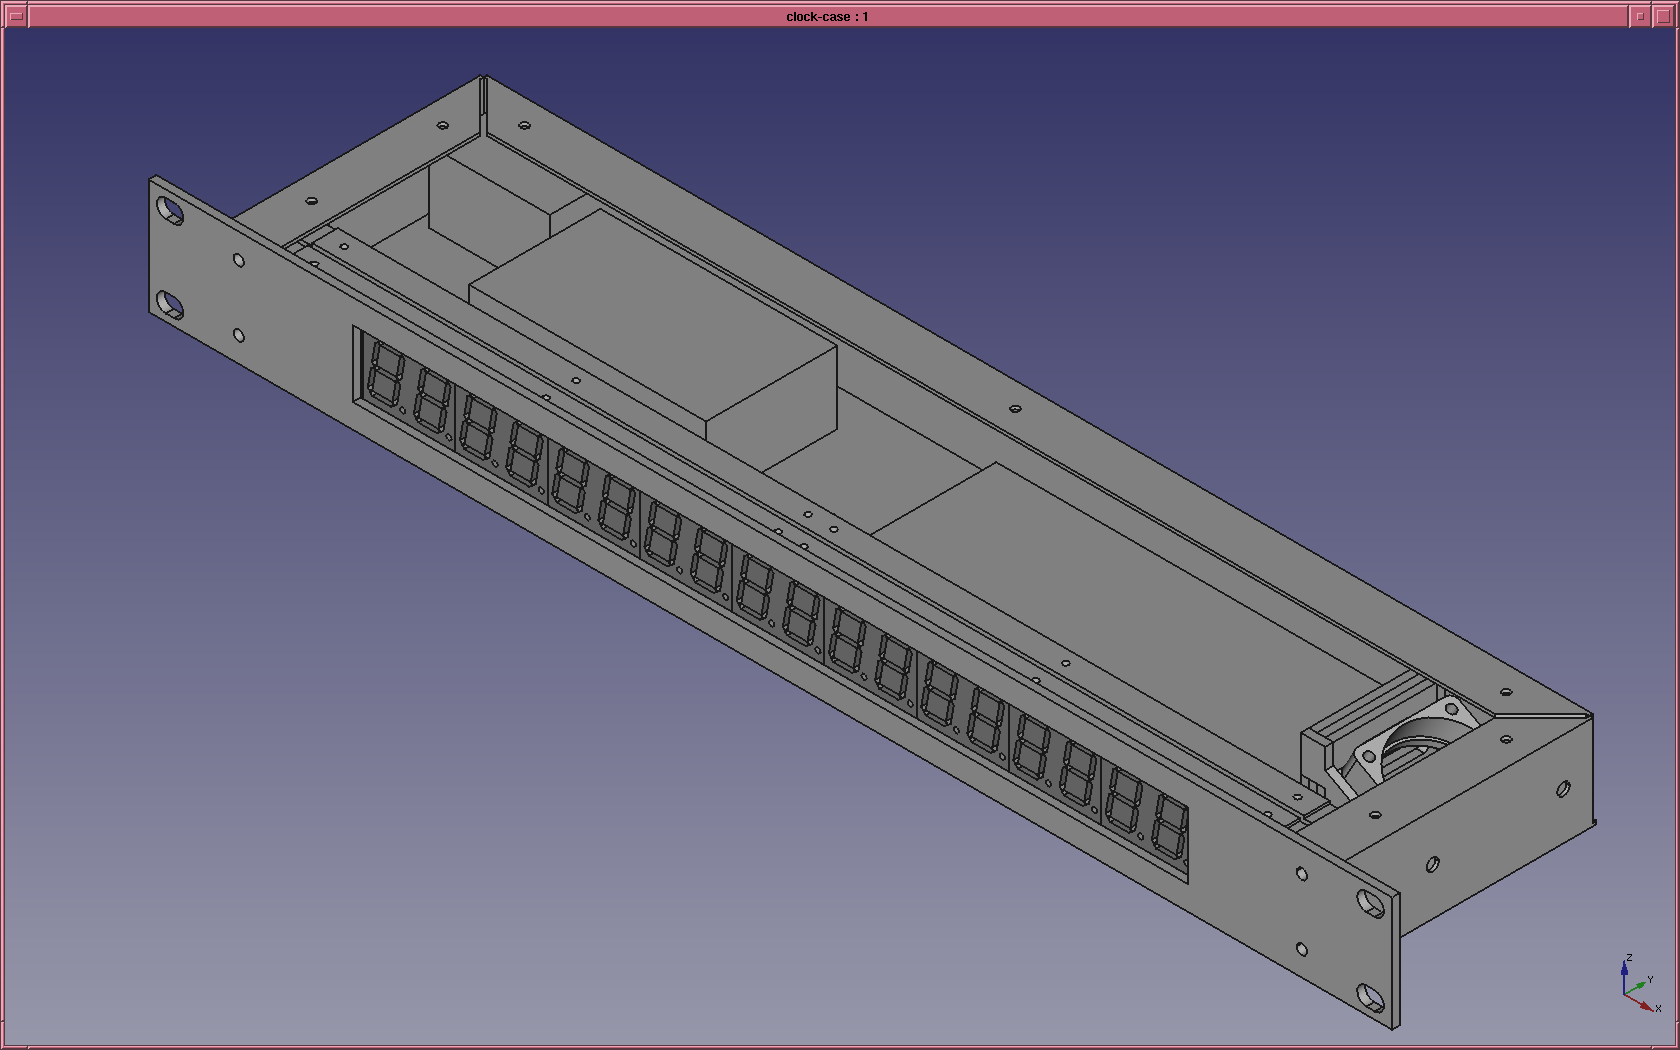
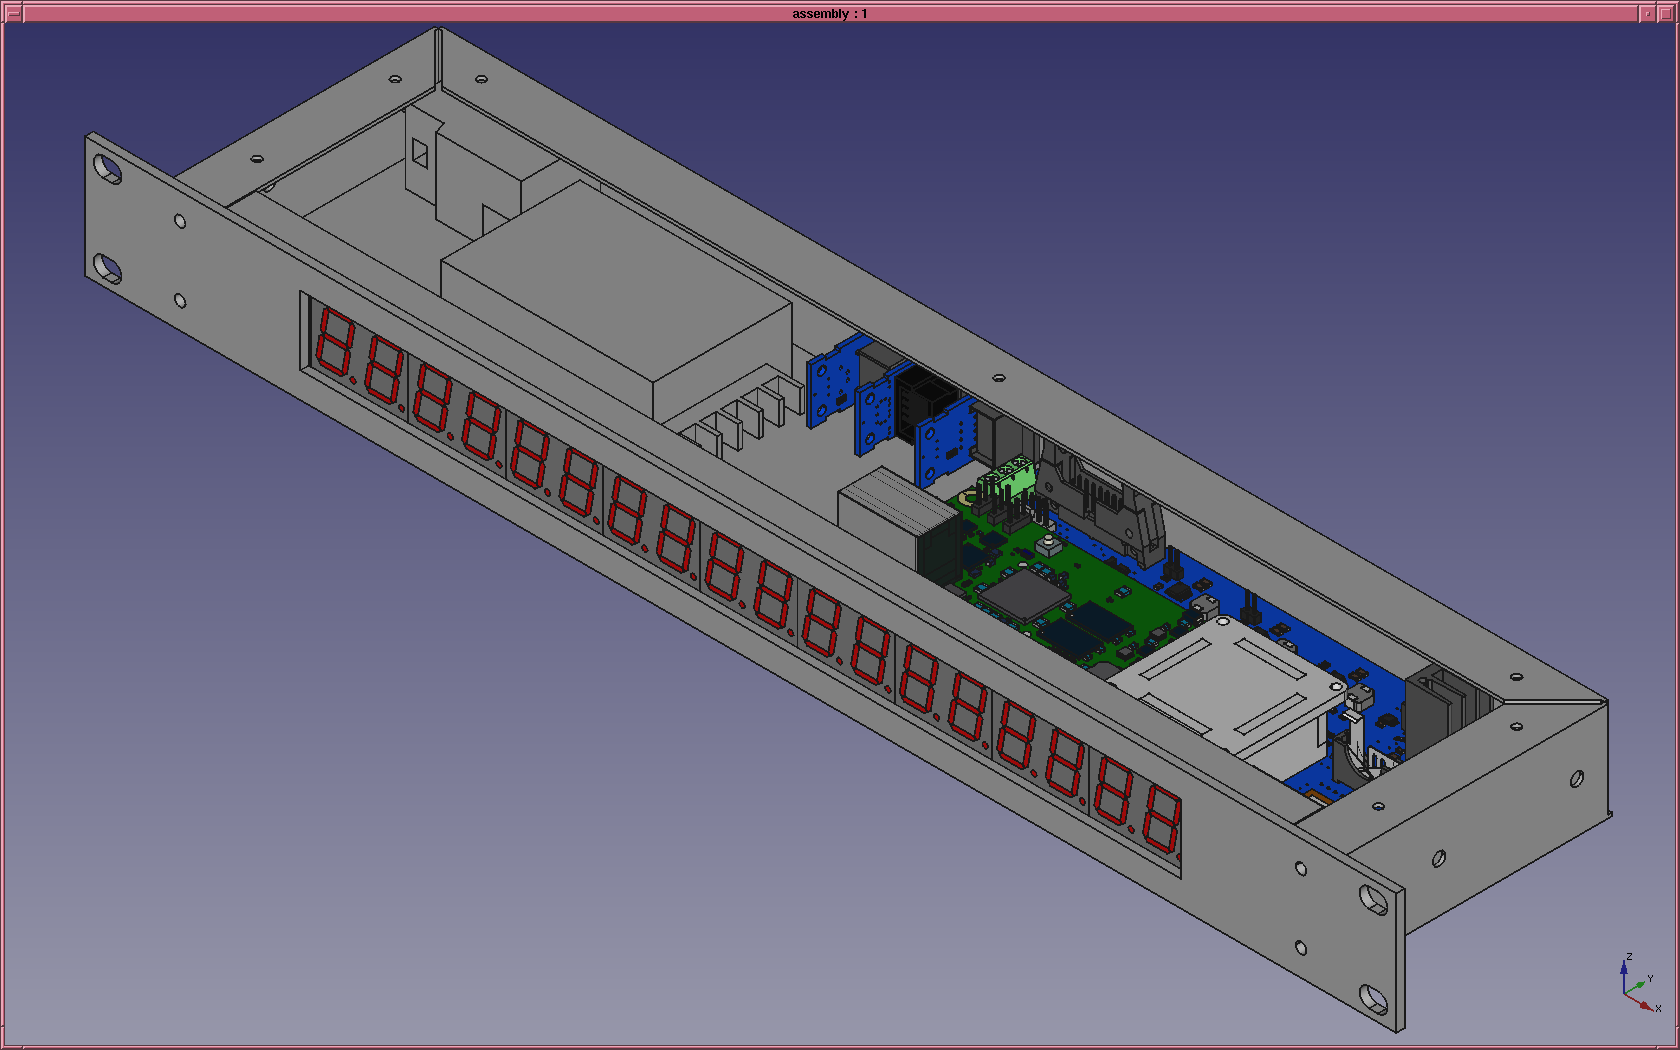
Use page switching for rotate animation. Update freecad and kicad submodule.

Changed region(s): [[0.0, 0.0, 1.0, 0.9752], [0.9286, 0.7314, 0.9595, 0.7924], [0.8667, 0.7314, 0.8976, 0.7619]]

diff --git a/README.md b/README.md
@@ -23,6 +23,12 @@
 * freecad
 
   3D models for the case parts and components for kicad.
+  * case
+
+    3D model of the case, display, pcb, power supply, etc
+    * assembly.fcstd
+
+      Top level case assembly incorporating all other files in this directory
   * mod/local.pretty/packages3d
 
     The 3D model source for the kicad components.
